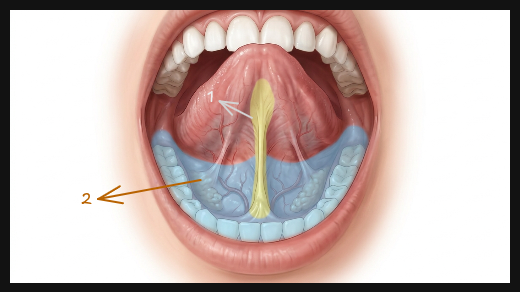
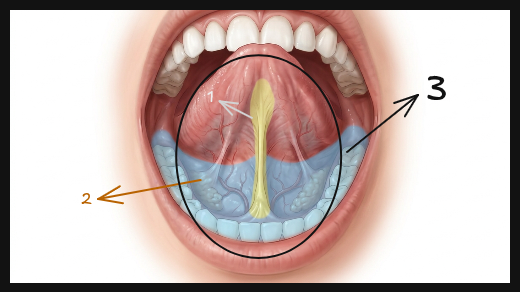
feat: enhance GameScreen and ImageQuizScreen with multi-answer support and improved input handling

diff --git a/src/styles/global.css b/src/styles/global.css
@@ -51,7 +51,7 @@ h1 em, h2 em { font-family: 'Playfair Display', serif; font-weight: 600; letter-
 .card-top { display: flex; justify-content: space-between; align-items: start; }.game-icon { color: var(--coral); font-size: 30px; }.available { color: var(--teal); font-size: 9px; letter-spacing: .08em; }.available i { display: inline-block; width: 6px; height: 6px; border-radius: 50%; background: #65a370; margin-right: 7px; }
 .game-card h3 { font-size: 24px; letter-spacing: -.045em; margin: 35px 0 8px; }.game-card p { font-size: 13px; color: var(--muted); line-height: 1.6; max-width: 250px; }.card-link, .back-link, .text-button, .select-all { background: transparent; text-align: left; }.card-link { display: flex; justify-content: space-between; color: var(--teal); font-weight: 800; font-size: 12px; border-top: 1px solid var(--line); padding-top: 18px; }.app-footer { display: flex; justify-content: space-between; padding: 20px 7.5%; border-top: 1px solid var(--line); color: var(--muted); font-size: 9px; letter-spacing: .06em; }
 .back-link { padding: 12px 0; color: var(--muted); font-size: 12px; }.settings-page { padding-top: 38px; padding-bottom: 80px; }.settings-heading { margin: 64px 0 50px 8%; }.settings-heading h1 { font-size: clamp(42px, 5vw, 64px); margin-bottom: 15px; }.settings-heading p:not(.eyebrow) { color: var(--muted); font-size: 14px; }.settings-grid { display: grid; grid-template-columns: 1fr 1fr; gap: 15px; }.settings-panel { background: var(--cream); border: 1px solid var(--line); padding: 30px; min-height: 380px; }.section-heading { display: flex; gap: 17px; align-items: start; margin-bottom: 30px; }.step-index { font: 500 11px 'DM Mono', monospace; color: var(--coral); padding-top: 4px; }.section-heading h2 { font-size: 22px; margin: 0 0 7px; }.section-heading p, .mode-option small, .setting-toggle small { margin: 0; color: var(--muted); font-size: 12px; }.mode-options { display: grid; gap: 10px; }.mode-option { display: flex; align-items: center; gap: 15px; background: var(--paper); border: 1px solid var(--line); padding: 18px; text-align: left; }.mode-option.selected { border-color: var(--coral); box-shadow: inset 4px 0 var(--coral); }.option-icon { display: grid; place-items: center; width: 32px; height: 32px; border-radius: 50%; color: var(--teal); background: #dbe8e2; font-size: 16px; }.mode-option strong, .mode-option small { display: block; }.mode-option strong { font-size: 13px; margin-bottom: 4px; }.radio-dot { margin-left: auto; width: 14px; height: 14px; border: 1px solid var(--muted); border-radius: 50%; }.selected .radio-dot { border: 4px solid var(--coral); }.setting-toggle { display: flex; justify-content: space-between; align-items: center; border-top: 1px solid var(--line); margin-top: 25px; padding-top: 20px; }.setting-toggle strong { display: block; font-size: 12px; margin-bottom: 5px; }.switch { width: 42px; height: 23px; border-radius: 30px; background: #c8ccc6; padding: 3px; }.switch span { display: block; width: 17px; height: 17px; background: white; border-radius: 50%; transition: transform .2s; }.switch.on { background: var(--teal); }.switch.on span { transform: translateX(19px); }.select-all { color: var(--teal); font-size: 12px; font-weight: 800; margin-bottom: 12px; }.select-all span { margin-left: 8px; }.region-list { border-top: 1px solid var(--line); }.region-option { width: 100%; display: flex; align-items: center; gap: 12px; padding: 13px 0; background: transparent; border-bottom: 1px solid var(--line); text-align: left; font-size: 13px; }.region-check { display: grid; place-items: center; width: 18px; height: 18px; border: 1px solid var(--line); color: white; font-size: 11px; }.region-option.selected .region-check { background: var(--coral); border-color: var(--coral); }.region-arrow { margin-left: auto; color: var(--muted); }.form-error { color: #af3f2b; font-size: 12px; margin: 18px 0 0; }.start-button { display: flex; margin: 25px 0 0 auto; min-width: 190px; }
-.game-page { padding-top: 22px; padding-bottom: 50px; }.game-topbar { display: flex; align-items: center; justify-content: space-between; }.progress-copy { color: var(--muted); display: flex; align-items: center; gap: 8px; }.progress-copy strong { color: var(--ink); font-size: 15px; font-weight: 500; }.progress-track { height: 2px; margin: 4px 0 24px; background: var(--line); }.progress-track span { display: block; height: 100%; background: var(--coral); transition: width .35s; }.game-layout { display: grid; grid-template-columns: minmax(0, 1.35fr) minmax(330px, .65fr); gap: 30px; align-items: center; min-height: 650px; }.viewer-shell { position: relative; height: min(67vh, 590px); min-height: 450px; background: #182321; overflow: hidden; }.anatomy-canvas { width: 100%; height: 100%; }.viewer-badge { position: absolute; top: 20px; left: 21px; color: #e9efe7; letter-spacing: .08em; }.live-dot { display: inline-block; width: 7px; height: 7px; background: var(--coral); border-radius: 50%; margin-right: 7px; }.viewer-note { position: absolute; left: 20px; right: 20px; bottom: 38px; padding: 9px 12px; background: rgba(244,240,232,.93); color: var(--ink); font-size: 11px; }.viewer-hint { position: absolute; bottom: 16px; right: 20px; color: rgba(255,255,255,.55); font-size: 8px; letter-spacing: .06em; }.answer-column { padding: 25px 5% 25px 7%; }.answer-column h1 { font-size: clamp(38px, 4vw, 58px); margin-bottom: 15px; }.answer-prompt { color: var(--muted); font-size: 15px; line-height: 1.6; margin-bottom: 34px; }.answer-form label { display: block; font: 500 10px 'DM Mono', monospace; text-transform: uppercase; letter-spacing: .1em; color: var(--muted); margin-bottom: 10px; }.answer-form input { width: 100%; border: 0; border-bottom: 1px solid var(--ink); background: transparent; padding: 12px 0; font-size: 17px; color: var(--ink); border-radius: 0; }.answer-form input::placeholder { color: #a8aaa1; }.button-row { display: flex; align-items: center; gap: 14px; flex-wrap: wrap; margin-top: 25px; }.text-button { color: var(--teal); font-weight: 800; font-size: 11px; padding: 12px 0; }.text-button span { font-size: 15px; }.text-button.muted { color: var(--muted); }.feedback { display: flex; gap: 12px; align-items: center; padding: 14px 0; margin-top: 20px; border-top: 1px solid var(--line); }.feedback > span { display: grid; place-items: center; width: 24px; height: 24px; border-radius: 50%; color: white; font-weight: 800; }.feedback.correct > span { background: #5d9a69; }.feedback.incorrect > span { background: var(--coral); }.feedback strong, .feedback small { display: block; }.feedback strong { font-size: 12px; }.feedback small { color: var(--muted); font-size: 11px; margin-top: 3px; }.reveal-button { display: flex; justify-content: space-between; align-items: center; width: 100%; padding: 18px 0; border-bottom: 1px solid var(--ink); background: transparent; text-align: left; color: var(--teal); font-weight: 800; }.reveal-button span { font-size: 20px; }.revealed-answer small { display: block; color: var(--muted); font-size: 11px; margin-bottom: 5px; }.revealed-answer strong { display: block; font-size: 29px; }.flash-feedback { flex-wrap: wrap; }.flash-feedback .primary-button { width: 100%; }.result-page { max-width: 850px; padding-top: 100px; padding-bottom: 90px; }.result-kicker { display: flex; align-items: center; gap: 15px; color: var(--coral); }.result-line { width: 50px; height: 1px; background: var(--coral); }.result-page h1 { font-size: clamp(54px, 8vw, 90px); margin: 55px 0 20px; }.result-score { display: flex; align-items: baseline; gap: 10px; }.result-score strong { font: 600 52px 'Playfair Display', serif; color: var(--teal); }.result-score span { font: 500 10px 'DM Mono', monospace; text-transform: uppercase; color: var(--muted); letter-spacing: .08em; }.stats-row { display: grid; grid-template-columns: repeat(4, 1fr); margin: 55px 0; padding: 20px 0; border-top: 1px solid var(--line); border-bottom: 1px solid var(--line); }.stats-row > div { border-right: 1px solid var(--line); padding-left: 20px; }.stats-row > div:first-child { padding-left: 0; }.stats-row > div:last-child { border: 0; }.stat-value, .stat-label { display: block; }.stat-value { font: 600 31px 'Playfair Display', serif; }.stat-label { color: var(--muted); font: 500 9px 'DM Mono', monospace; text-transform: uppercase; letter-spacing: .06em; margin-top: 6px; }.correct-text { color: #5d9a69; }.wrong-text { color: var(--coral); }.skip-text { color: var(--teal); }.result-actions { display: flex; gap: 20px; align-items: center; }.secondary-button { min-height: 52px; padding: 0 20px; background: transparent; border: 1px solid var(--line); color: var(--muted); font-size: 12px; font-weight: 800; }.credit-line { margin-top: 100px; color: var(--muted); font-size: 11px; }.credit-line strong { color: var(--teal); }
+.game-page { padding-top: 22px; padding-bottom: 50px; }.game-topbar { display: flex; align-items: center; justify-content: space-between; }.progress-copy { color: var(--muted); display: flex; align-items: center; gap: 8px; }.progress-copy strong { color: var(--ink); font-size: 15px; font-weight: 500; }.progress-track { height: 2px; margin: 4px 0 24px; background: var(--line); }.progress-track span { display: block; height: 100%; background: var(--coral); transition: width .35s; }.game-layout { display: grid; grid-template-columns: minmax(0, 1.35fr) minmax(330px, .65fr); gap: 30px; align-items: center; min-height: 650px; }.viewer-shell { position: relative; height: min(67vh, 590px); min-height: 450px; background: #182321; overflow: hidden; }.anatomy-canvas { width: 100%; height: 100%; }.viewer-badge { position: absolute; top: 20px; left: 21px; color: #e9efe7; letter-spacing: .08em; }.live-dot { display: inline-block; width: 7px; height: 7px; background: var(--coral); border-radius: 50%; margin-right: 7px; }.viewer-note { position: absolute; left: 20px; right: 20px; bottom: 38px; padding: 9px 12px; background: rgba(244,240,232,.93); color: var(--ink); font-size: 11px; }.viewer-hint { position: absolute; bottom: 16px; right: 20px; color: rgba(255,255,255,.55); font-size: 8px; letter-spacing: .06em; }.answer-column { padding: 25px 5% 25px 7%; }.answer-column h1 { font-size: clamp(38px, 4vw, 58px); margin-bottom: 15px; }.answer-prompt { color: var(--muted); font-size: 15px; line-height: 1.6; margin-bottom: 34px; }.answer-form label { display: block; font: 500 10px 'DM Mono', monospace; text-transform: uppercase; letter-spacing: .1em; color: var(--muted); margin-bottom: 10px; }.answer-form input { width: 100%; border: 0; border-bottom: 1px solid var(--ink); background: transparent; padding: 12px 0; font-size: 17px; color: var(--ink); border-radius: 0; }.answer-form input::placeholder { color: #a8aaa1; }.answer-form input.field-correct { border-bottom-color: #65a370 !important; color: #6dd68c; }.answer-form input.field-incorrect { border-bottom-color: #e4775a !important; color: #f29a85; }.multi-answer-list { display: grid; gap: 18px; }.multi-answer-item { display: grid; gap: 8px; }.multi-answer-item label { display: block; font: 500 10px 'DM Mono', monospace; text-transform: uppercase; letter-spacing: .1em; color: var(--muted); margin-bottom: 0; }.multi-answer-item input.field-correct { border-bottom-color: #65a370 !important; color: #6dd68c; }.multi-answer-item input.field-incorrect { border-bottom-color: #e4775a !important; color: #f29a85; }.button-row { display: flex; align-items: center; gap: 14px; flex-wrap: wrap; margin-top: 25px; }.text-button { color: var(--teal); font-weight: 800; font-size: 11px; padding: 12px 0; }.text-button span { font-size: 15px; }.text-button.muted { color: var(--muted); }.feedback { display: flex; gap: 12px; align-items: center; padding: 14px 0; margin-top: 20px; border-top: 1px solid var(--line); }.feedback > span { display: grid; place-items: center; width: 24px; height: 24px; border-radius: 50%; color: white; font-weight: 800; }.feedback.correct > span { background: #5d9a69; }.feedback.incorrect > span { background: var(--coral); }.feedback strong, .feedback small { display: block; }.feedback strong { font-size: 12px; }.feedback small { color: var(--muted); font-size: 11px; margin-top: 3px; }.reveal-button { display: flex; justify-content: space-between; align-items: center; width: 100%; padding: 18px 0; border-bottom: 1px solid var(--ink); background: transparent; text-align: left; color: var(--teal); font-weight: 800; }.reveal-button span { font-size: 20px; }.revealed-answer small { display: block; color: var(--muted); font-size: 11px; margin-bottom: 5px; }.revealed-answer strong { display: block; font-size: 29px; }.flash-feedback { flex-wrap: wrap; }.flash-feedback .primary-button { width: 100%; }.result-page { max-width: 850px; padding-top: 100px; padding-bottom: 90px; }.result-kicker { display: flex; align-items: center; gap: 15px; color: var(--coral); }.result-line { width: 50px; height: 1px; background: var(--coral); }.result-page h1 { font-size: clamp(54px, 8vw, 90px); margin: 55px 0 20px; }.result-score { display: flex; align-items: baseline; gap: 10px; }.result-score strong { font: 600 52px 'Playfair Display', serif; color: var(--teal); }.result-score span { font: 500 10px 'DM Mono', monospace; text-transform: uppercase; color: var(--muted); letter-spacing: .08em; }.stats-row { display: grid; grid-template-columns: repeat(4, 1fr); margin: 55px 0; padding: 20px 0; border-top: 1px solid var(--line); border-bottom: 1px solid var(--line); }.stats-row > div { border-right: 1px solid var(--line); padding-left: 20px; }.stats-row > div:first-child { padding-left: 0; }.stats-row > div:last-child { border: 0; }.stat-value, .stat-label { display: block; }.stat-value { font: 600 31px 'Playfair Display', serif; }.stat-label { color: var(--muted); font: 500 9px 'DM Mono', monospace; text-transform: uppercase; letter-spacing: .06em; margin-top: 6px; }.correct-text { color: #5d9a69; }.wrong-text { color: var(--coral); }.skip-text { color: var(--teal); }.result-actions { display: flex; gap: 20px; align-items: center; }.secondary-button { min-height: 52px; padding: 0 20px; background: transparent; border: 1px solid var(--line); color: var(--muted); font-size: 12px; font-weight: 800; }.credit-line { margin-top: 100px; color: var(--muted); font-size: 11px; }.credit-line strong { color: var(--teal); }
 @media (max-width: 800px) { .app-header, .home-page, .settings-page, .game-page, .result-page { padding-left: 20px; padding-right: 20px; }.header-meta { display: none; }.hero { display: block; min-height: auto; }.hero-copy { padding: 70px 0 20px; }.hero h1 { font-size: clamp(45px, 13vw, 72px); }.hero-orbit { min-height: 300px; transform: scale(.72); margin-top: -20px; }.games-section { padding: 45px 0 60px; }.section-intro { display: block; }.section-intro .eyebrow { margin-bottom: 18px; }.game-card-grid { grid-template-columns: 1fr; }.game-card { min-height: 230px; }.second-semester-grid { grid-template-columns: 1fr; }.app-footer { margin: 0 -20px; padding: 20px; gap: 12px; flex-direction: column; }.settings-heading { margin: 45px 0 34px; }.settings-grid { grid-template-columns: 1fr; }.settings-panel { min-height: auto; padding: 24px 20px; }.game-layout { grid-template-columns: 1fr; gap: 22px; min-height: auto; }.viewer-shell { min-height: 410px; height: 62vh; }.answer-column { padding: 15px 0 35px; }.answer-column h1 { font-size: 45px; }.result-page { padding-top: 70px; }.result-actions { flex-direction: column; align-items: stretch; }.result-actions button { width: 100%; }.credit-line { margin-top: 60px; } }
 
 .highlight-badge { position: absolute; top: 18px; right: 20px; display: flex; align-items: center; gap: 7px; padding: 7px 10px; background: rgba(255, 200, 87, .14); color: #ffd778; font: 500 9px 'DM Mono', monospace; letter-spacing: .08em; text-transform: uppercase; }

diff --git a/src/components/ImageQuizScreen.jsx b/src/components/ImageQuizScreen.jsx
@@ -1,24 +1,52 @@
 import { useEffect, useMemo, useState } from 'react';
 import { normalizeAnswer } from '../utils/normalizeAnswer';
 
+const buildEmptyMultiState = (answers = []) => Object.fromEntries(
+  answers.map((_, index) => [index + 1, ''])
+);
+
+const buildEmptyMultiStatus = (answers = []) => Object.fromEntries(
+  answers.map((_, index) => [index + 1, null])
+);
+
 export default function ImageQuizScreen({ game, onBack, onFinish }) {
   const [currentIndex, setCurrentIndex] = useState(0);
   const [input, setInput] = useState('');
+  const [multiInputs, setMultiInputs] = useState(() => buildEmptyMultiState(game?.customQuiz?.[0]?.answers || []));
+  const [multiStatus, setMultiStatus] = useState(() => buildEmptyMultiStatus(game?.customQuiz?.[0]?.answers || []));
   const [feedback, setFeedback] = useState(null);
   const [answerError, setAnswerError] = useState('');
   const [resultSummary, setResultSummary] = useState({ correct: 0, incorrect: 0 });
 
   const current = game?.customQuiz?.[currentIndex];
+  const isMultiAnswerQuestion = current?.type === 'multiple';
   const isLastQuestion = currentIndex === (game?.customQuiz?.length || 1) - 1;
   const answerPrompt = current?.id === 'vestibulo-da-boca'
     ? 'espaço entre os dentes/gengivas e as paredes da boca.'
     : current?.id === 'cavidade-propria-da-boca'
       ? 'parte interna da boca, limitada pelos dentes e pela arcada alveolar.'
-      : 'Observe a imagem e confie no que você sabe.';
+      : current?.id === 'istmo-das-fauces'
+        ? 'passagem que comunica a boca com a faringe.'
+        : isMultiAnswerQuestion
+          ? 'Identifique cada estrutura indicada na imagem.'
+          : 'Observe a imagem e confie no que você sabe.';
   const progress = useMemo(() => {
     if (!game?.customQuiz?.length) return 0;
     return ((currentIndex + 1) / game.customQuiz.length) * 100;
   }, [currentIndex, game]);
+
+  useEffect(() => {
+    if (!current || !current.answers) {
+      return undefined;
+    }
+
+    setMultiInputs(buildEmptyMultiState(current.answers));
+    setMultiStatus(buildEmptyMultiStatus(current.answers));
+    setInput('');
+    setFeedback(null);
+    setAnswerError('');
+    return undefined;
+  }, [current?.id]);
 
   useEffect(() => {
     if (!feedback) return undefined;
@@ -37,6 +65,32 @@ export default function ImageQuizScreen({ game, onBack, onFinish }) {
 
   const submitAnswer = (event) => {
     event.preventDefault();
+
+    if (isMultiAnswerQuestion) {
+      const expectedFields = current.answers.length;
+      const values = Array.from({ length: expectedFields }, (_, index) => (multiInputs[index + 1] || '').trim());
+      if (values.some((value) => !value)) {
+        setAnswerError(`Preencha as ${expectedFields} estruturas antes de continuar.`);
+        return;
+      }
+
+      const nextStatus = {};
+      current.answers.forEach((item, index) => {
+        const hasCorrectValue = normalizeAnswer(values[index]) === normalizeAnswer(item.answer);
+        nextStatus[index + 1] = hasCorrectValue ? 'correct' : 'incorrect';
+      });
+
+      const isCorrect = Object.values(nextStatus).every((status) => status === 'correct');
+      setMultiStatus(nextStatus);
+      setAnswerError('');
+      setFeedback(isCorrect ? 'correct' : 'incorrect');
+      setResultSummary((previous) => ({
+        correct: previous.correct + (isCorrect ? 1 : 0),
+        incorrect: previous.incorrect + (isCorrect ? 0 : 1),
+      }));
+      return;
+    }
+
     const trimmed = input.trim();
     if (!trimmed) {
       setAnswerError('Digite uma resposta antes de continuar.');
@@ -57,6 +111,8 @@ export default function ImageQuizScreen({ game, onBack, onFinish }) {
     if (!isLastQuestion) {
       setCurrentIndex((index) => index + 1);
       setInput('');
+      setMultiInputs(buildEmptyMultiState(current.answers));
+      setMultiStatus(buildEmptyMultiStatus(current.answers));
       setFeedback(null);
       setAnswerError('');
       return;
@@ -95,22 +151,51 @@ export default function ImageQuizScreen({ game, onBack, onFinish }) {
           <p className="answer-prompt">{answerPrompt}</p>
 
           <form onSubmit={submitAnswer} className="answer-form">
-            <label htmlFor="image-quiz-answer">Sua resposta</label>
-            <input
-              id="image-quiz-answer"
-              type="text"
-              value={input}
-              onChange={(event) => {
-                setInput(event.target.value);
-                if (feedback) setFeedback(null);
-                if (answerError) setAnswerError('');
-              }}
-              placeholder="Digite o nome da estrutura"
-              autoFocus
-              disabled={Boolean(feedback)}
-              aria-invalid={Boolean(answerError)}
-              aria-describedby={answerError ? 'image-answer-error' : undefined}
-            />
+            {!isMultiAnswerQuestion ? (
+              <>
+                <label htmlFor="image-quiz-answer">Sua resposta</label>
+                <input
+                  id="image-quiz-answer"
+                  type="text"
+                  value={input}
+                  onChange={(event) => {
+                    setInput(event.target.value);
+                    if (feedback) setFeedback(null);
+                    if (answerError) setAnswerError('');
+                  }}
+                  placeholder="Digite o nome da estrutura"
+                  autoFocus
+                  disabled={Boolean(feedback)}
+                  aria-invalid={Boolean(answerError)}
+                  aria-describedby={answerError ? 'image-answer-error' : undefined}
+                />
+              </>
+            ) : (
+              <div className="multi-answer-list">
+                {current.answers.map((item, index) => (
+                  <div key={item.label} className="multi-answer-item">
+                    <label htmlFor={`image-quiz-answer-${index + 1}`}>{item.label}</label>
+                    <input
+                      id={`image-quiz-answer-${index + 1}`}
+                      type="text"
+                      value={multiInputs[index + 1]}
+                      className={feedback ? (multiStatus[index + 1] === 'correct' ? 'field-correct' : 'field-incorrect') : ''}
+                      onChange={(event) => {
+                        const nextValue = event.target.value;
+                        setMultiInputs((previous) => ({ ...previous, [index + 1]: nextValue }));
+                        if (feedback) setFeedback(null);
+                        if (answerError) setAnswerError('');
+                      }}
+                      placeholder={item.label}
+                      autoFocus={index === 0}
+                      disabled={Boolean(feedback)}
+                      aria-invalid={Boolean(answerError)}
+                      aria-describedby={answerError ? 'image-answer-error' : undefined}
+                    />
+                  </div>
+                ))}
+              </div>
+            )}
 
             {answerError && <small id="image-answer-error" className="answer-error" role="alert">{answerError}</small>}
 
@@ -119,7 +204,13 @@ export default function ImageQuizScreen({ game, onBack, onFinish }) {
                 <span>{feedback === 'correct' ? '✓' : '×'}</span>
                 <div>
                   <strong>{feedback === 'correct' ? 'Correto!' : 'Resposta incorreta'}</strong>
-                  {feedback === 'incorrect' && <small>Resposta: {current.answer}</small>}
+                  {feedback === 'incorrect' && (
+                    <small>
+                      {isMultiAnswerQuestion
+                        ? `Respostas corretas: ${current.answers.map((item) => item.answer).join(' • ')}`
+                        : `Resposta: ${current.answer}`}
+                    </small>
+                  )}
                 </div>
               </div>
             )}

diff --git a/src/data/bocaFaringeQuiz.js b/src/data/bocaFaringeQuiz.js
@@ -1,5 +1,11 @@
 import vestibuloImage from '../styles/assets/questionario boca e faringe pt.1/1 CAVIDADE ORAL/vestibulo.jpeg';
 import cavidadePropriaImage from '../styles/assets/questionario boca e faringe pt.1/1 CAVIDADE ORAL/cavidade propria.jpeg';
+import istmoImage from '../styles/assets/questionario boca e faringe pt.1/1 CAVIDADE ORAL/istmo.jpeg';
+import palatosUvulaImage from '../styles/assets/questionario boca e faringe pt.1/1 CAVIDADE ORAL/palatos ulvula.png';
+import frenuloImage from '../styles/assets/questionario boca e faringe pt.1/1 CAVIDADE ORAL/frenulo assoalho inferior.png';
+import raizCorpoApiceImage from '../styles/assets/questionario boca e faringe pt.1/2 Lingua/raiz corpo apice .png';
+import sulcoForameImage from '../styles/assets/questionario boca e faringe pt.1/2 Lingua/sulco forame.png';
+import papilasImage from '../styles/assets/questionario boca e faringe pt.1/2 Lingua/papilas.png';
 
 export const bocaFaringeQuestions = [
   {
@@ -15,5 +21,132 @@ export const bocaFaringeQuestions = [
     question: 'Qual estrutura é indicada na imagem?',
     answer: 'cavidade propria da boca',
     explanation: 'Parte interna da boca, limitada pelos dentes e pela arcada alveolar.',
+  },
+  {
+    id: 'istmo-das-fauces',
+    image: istmoImage,
+    question: 'Qual estrutura é indicada na imagem?',
+    answer: 'istmo das fauces',
+    explanation: 'Passagem que comunica a boca com a faringe.',
+  },
+  {
+    id: 'palatos-e-ulvula',
+    type: 'multiple',
+    image: palatosUvulaImage,
+    question: 'Qual é esta estrutura?',
+    answers: [
+      {
+        label: 'Estrutura 1',
+        answer: 'palato duro',
+        description: 'Parte óssea do teto da boca, formada pelo palatino e maxilar.',
+      },
+      {
+        label: 'Estrutura 2',
+        answer: 'palato mole',
+        description: 'Parte posterior do palato, formada por tecido muscular e membranoso.',
+      },
+      {
+        label: 'Estrutura 3',
+        answer: 'uvula',
+        description: 'Estrutura pendular no teto da boca que ajuda na deglutição.',
+      },
+    ],
+  },
+  {
+    id: 'frenulo-lingual',
+    type: 'multiple',
+    image: frenuloImage,
+    question: 'Qual é esta estrutura?',
+    answers: [
+      {
+        label: 'Estrutura 1',
+        answer: 'frenulo lingual',
+        description: 'Pregas de tecido mucoso que liga a língua ao assoalho da boca.',
+      },
+      {
+        label: 'Estrutura 2',
+        answer: 'assoalho da boca',
+        description: 'Área inferior da cavidade oral, localizada sob a língua.',
+      },
+      {
+        label: 'Estrutura 3',
+        answer: 'face inferior da lingua',
+        description: 'Superfície ventral da língua, voltada para o assoalho da boca.',
+      },
+    ],
+  },
+  {
+    id: 'raiz-corpo-apice-da-lingua',
+    type: 'multiple',
+    image: raizCorpoApiceImage,
+    question: 'Qual é esta estrutura?',
+    answers: [
+      {
+        label: 'Estrutura 1',
+        answer: 'raiz da lingua',
+        description: 'Parte posterior da língua, fixa à base oral e à faringe.',
+      },
+      {
+        label: 'Estrutura 2',
+        answer: 'corpo da lingua',
+        description: 'Porção central e principal da língua, responsável pela maioria do volume.',
+      },
+      {
+        label: 'Estrutura 3',
+        answer: 'apice da lingua',
+        description: 'Extremidade anterior da língua, mais livre e móvel.',
+      },
+      {
+        label: 'Estrutura 4',
+        answer: 'dorso da lingua',
+        description: 'Superfície superior da língua, rica em papilas gustativas.',
+      },
+    ],
+  },
+  {
+    id: 'sulco-terminal-e-forame-cego',
+    type: 'multiple',
+    image: sulcoForameImage,
+    question: 'Qual é esta estrutura?',
+    answers: [
+      {
+        label: 'Estrutura 1',
+        answer: 'sulco terminal da lingua',
+        description: 'Linha em forma de V que marca a divisão entre as porções anterior e posterior da língua.',
+      },
+      {
+        label: 'Estrutura 2',
+        answer: 'forame cego',
+        description: 'Pequena abertura na linha mediana da parte posterior do dorso da língua.',
+      },
+    ],
+  },
+  {
+    id: 'papilas-da-lingua',
+    type: 'multiple',
+    image: papilasImage,
+    question: 'Qual é esta estrutura?',
+    answers: [
+      {
+        label: 'Estrutura 1',
+        answer: 'papilas circunvaladas',
+        description: 'Papilas grandes, em formato de montes, localizadas na parte posterior da língua.',
+      },
+      {
+        label: 'Estrutura 2',
+        answer: 'papilas folhadas',
+        description: 'Papilas em pregas laterais da língua, mais desenvolvidas em alguns animais.',
+      },
+      {
+        label: 'Estrutura 3',
+        answer: 'papilas filiformes',
+        description: 'Papilas finas e numerosas, responsáveis pela textura e pela sensibilidade tátil.',
+      },
+      {
+        label: 'Estrutura 4',
+        answer: 'papilas fungiformes',
+        description: 'Papilas em forma de cogumelo, distribuídas principalmente na porção anterior da língua.',
+      },
+    ],
   },
 ];

diff --git a/src/components/GameScreen.jsx b/src/components/GameScreen.jsx
@@ -69,7 +69,18 @@ export default function GameScreen({ game, onExit, onFinish }) {
           {state.mode === 'write' ? (
             <form onSubmit={submit} className="answer-form">
               <label htmlFor="answer">Sua resposta</label>
-              <input id="answer" autoComplete="off" value={input} onChange={(event) => { setInput(event.target.value); setAnswerError(''); }} placeholder="Digite o nome da estrutura" disabled={answered} autoFocus={!answered} aria-invalid={Boolean(answerError)} aria-describedby={answerError ? 'answer-error' : undefined} />
+              <input
+                id="answer"
+                autoComplete="off"
+                value={input}
+                className={answered ? (state.feedback.type === 'correct' ? 'field-correct' : 'field-incorrect') : ''}
+                onChange={(event) => { setInput(event.target.value); setAnswerError(''); }}
+                placeholder="Digite o nome da estrutura"
+                disabled={answered}
+                autoFocus={!answered}
+                aria-invalid={Boolean(answerError)}
+                aria-describedby={answerError ? 'answer-error' : undefined}
+              />
               {answerError && <small id="answer-error" className="answer-error" role="alert">{answerError}</small>}
               {state.feedback && <div className={`feedback ${state.feedback.type}`}><span>{state.feedback.type === 'correct' ? '✓' : '×'}</span><div><strong>{state.feedback.type === 'correct' ? 'Correto!' : 'Resposta incorreta'}</strong>{state.feedback.type === 'incorrect' && <small>Resposta: {displayName}</small>}</div></div>}
               <div className="button-row">
